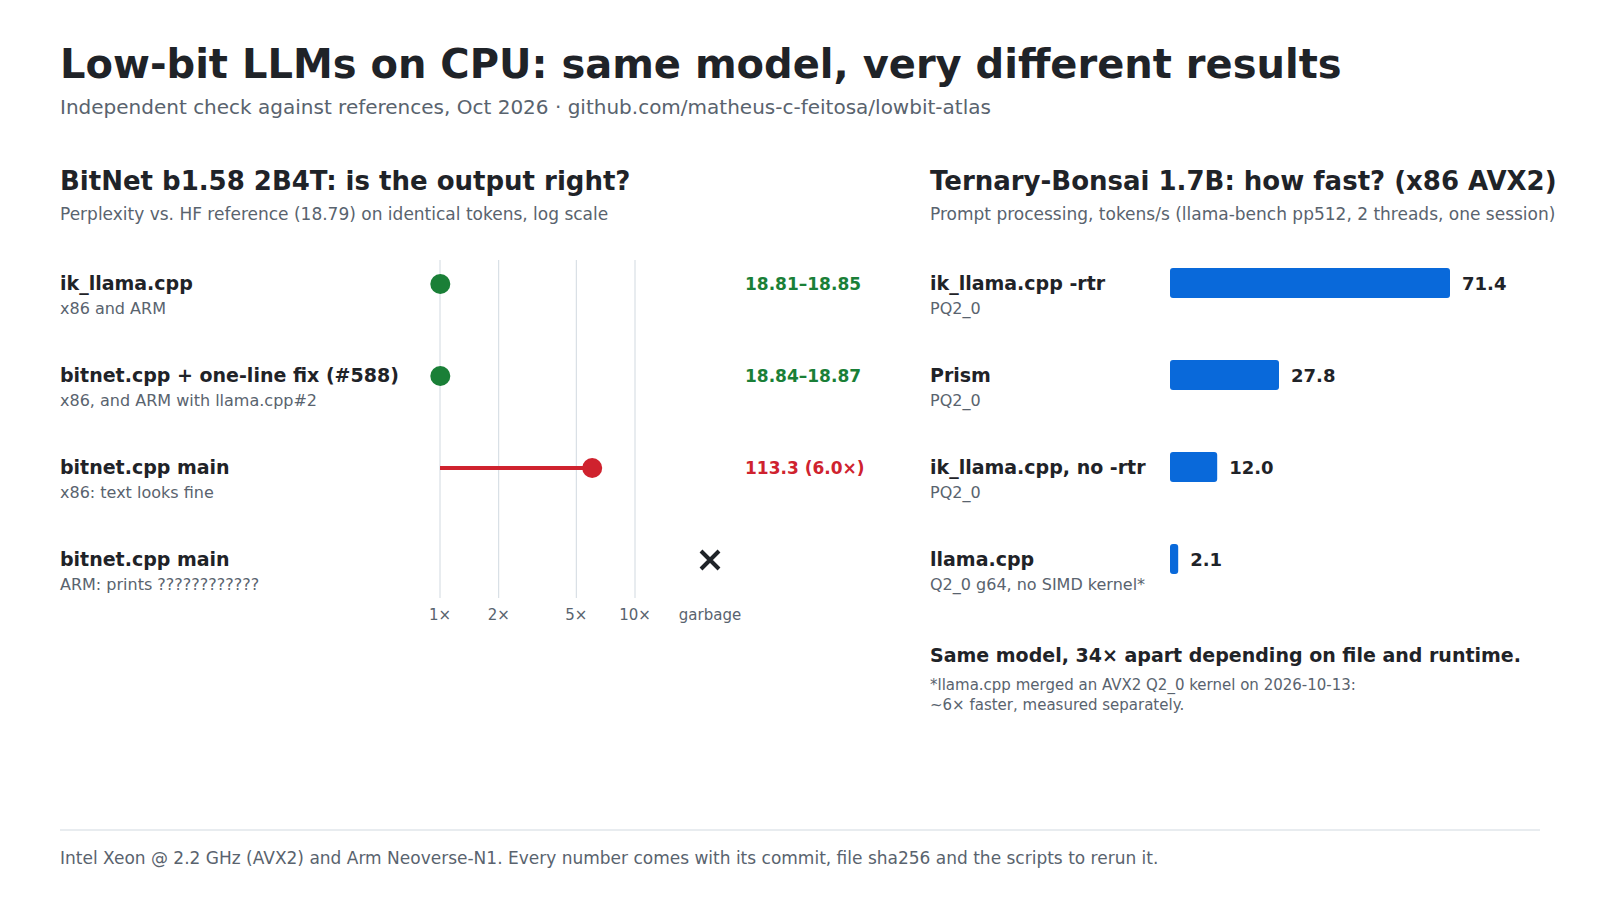
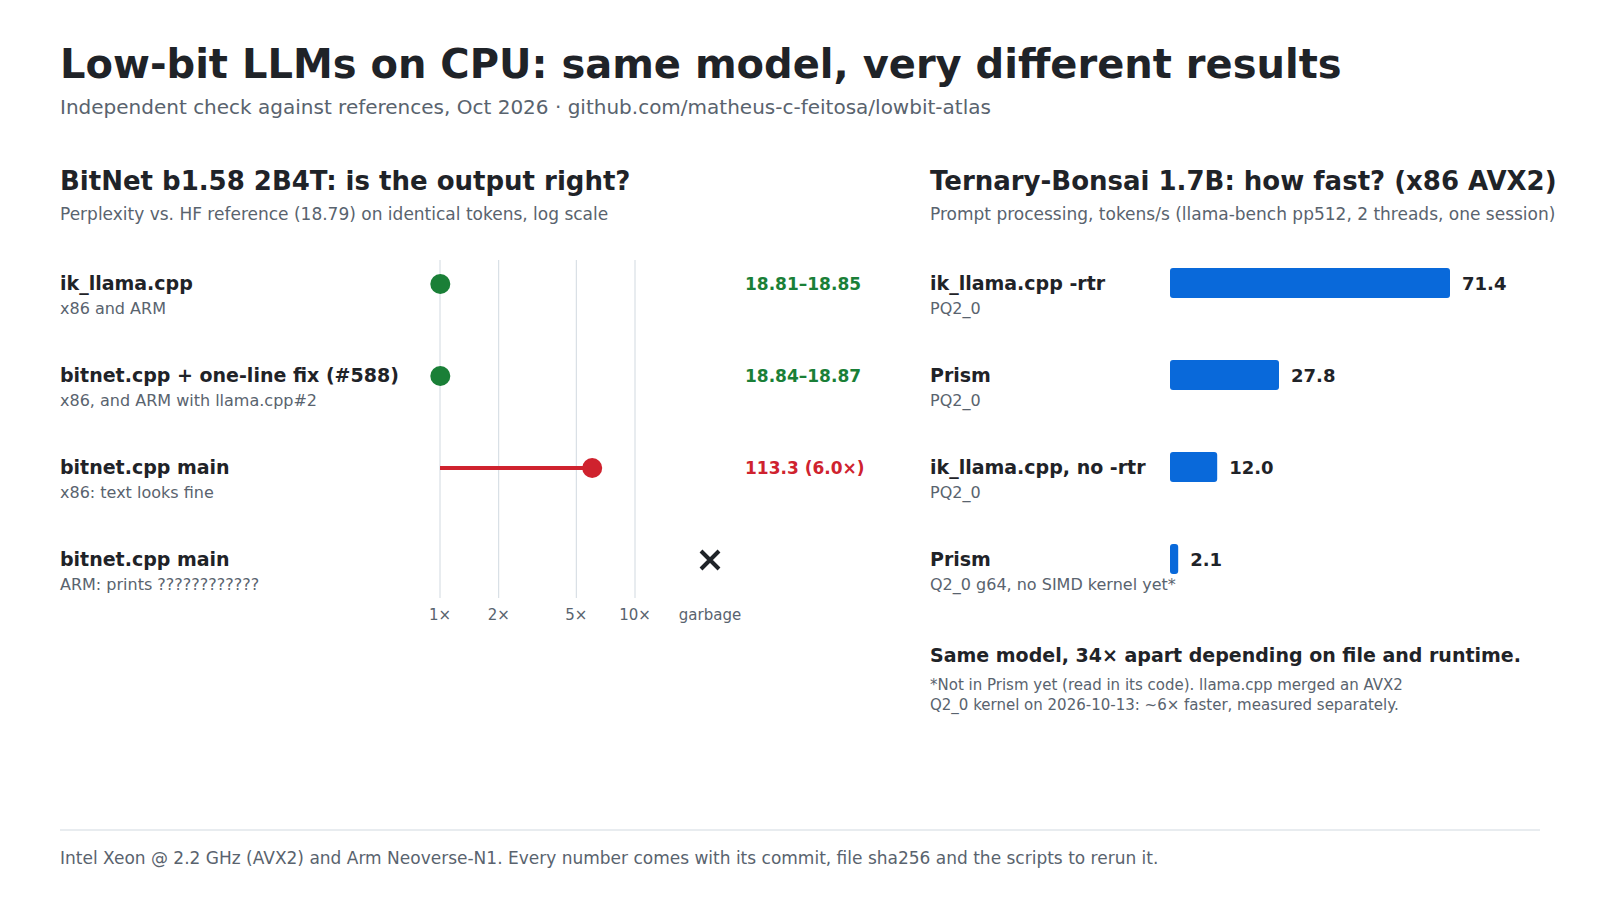
Chart: slowest bar is Prism Q2_0 g64 (same session, still no x86 kernel in Prism)
llama.cpp has had an AVX2 Q2_0 kernel since 2026-10-13, so the bar now shows
Prism, measured in the same session at the same 2.1 tokens/s; the footnote
says the kernel is not in Prism yet (read in its code at e3de715).

Assisted-by: Claude Code (Anthropic, claude-opus-5-5)

Changed region(s): [[0.5938, 0.7467, 0.875, 0.8089], [0.5938, 0.5911, 0.6562, 0.6533]]

diff --git a/scripts/chart.py b/scripts/chart.py
@@ -61,7 +61,7 @@ def speed_rows():
         ("ik_llama.cpp -rtr", "PQ2_0", s["ik-rtr-pq2_0"][0]),
         ("Prism", "PQ2_0", s["prism-pq2_0"][0]),
         ("ik_llama.cpp, no -rtr", "PQ2_0", s["ik-pq2_0"][0]),
-        ("llama.cpp", "Q2_0 g64, no SIMD kernel*", s["llama-q2_0_g64"][0]),
+        ("Prism", "Q2_0 g64, no SIMD kernel yet*", s["prism-q2_0_g64"][0]),
     ]
 
 
@@ -134,10 +134,10 @@ def key_findings():
     ratio = sp[0][2] / sp[-1][2]
     out.append(text(x0, top + 4 * 92 + 34, f"Same model, {ratio:.0f}× apart "
                     "depending on file and runtime.", 19, INK, "bold"))
-    out.append(text(x0, top + 4 * 92 + 62, "*llama.cpp merged an AVX2 Q2_0 "
-                    "kernel on 2026-10-13:", 15, GRAY))
-    out.append(text(x0, top + 4 * 92 + 82, "~6× faster, measured separately.",
-                    15, GRAY))
+    out.append(text(x0, top + 4 * 92 + 62, "*Not in Prism yet (read in its "
+                    "code). llama.cpp merged an AVX2", 15, GRAY))
+    out.append(text(x0, top + 4 * 92 + 82, "Q2_0 kernel on 2026-10-13: ~6× "
+                    "faster, measured separately.", 15, GRAY))
 
     out.append(f'<line x1="60" y1="{H - 70}" x2="{W - 60}" y2="{H - 70}" '
                f'stroke="{LIGHT}"/>')
